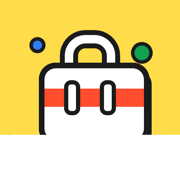
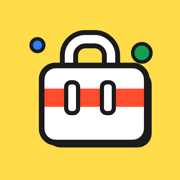
アプリアイコンPNGの下部欠けを修正、メガホンアイコンの形状改善
- icon-512/192/180.png の下部約1/4が白く欠けていた(canvas生成時の
  描画不完全)ため、ヘッドレスChromeで icon.svg から再生成
- 192/180はシャープさを保つため512から縮小して生成
- アナウンスFABのメガホンアイコンを持ち手が見える形状に変更
  (旧形状は持ち手が短く下部が欠けて見えた)

Changed region(s): [[0.0, 0.7222, 1.0, 1.0], [0.3333, 0.2222, 0.3611, 0.25]]

diff --git a/src/components/icons.tsx b/src/components/icons.tsx
@@ -75,8 +75,8 @@ export const IconBack = (p: SVGProps<SVGSVGElement>) => (
 
 export const IconMegaphone = (p: SVGProps<SVGSVGElement>) => (
   <Svg {...p}>
-    <path d="M4 9.5L18 4v16L4 14.5v-5z" />
-    <path d="M8 15.5V20" />
+    <path d="M3 11l18-5v12L3 14v-3z" />
+    <path d="M11.6 16.8a3 3 0 1 1-5.8-1.6" />
   </Svg>
 );
 
